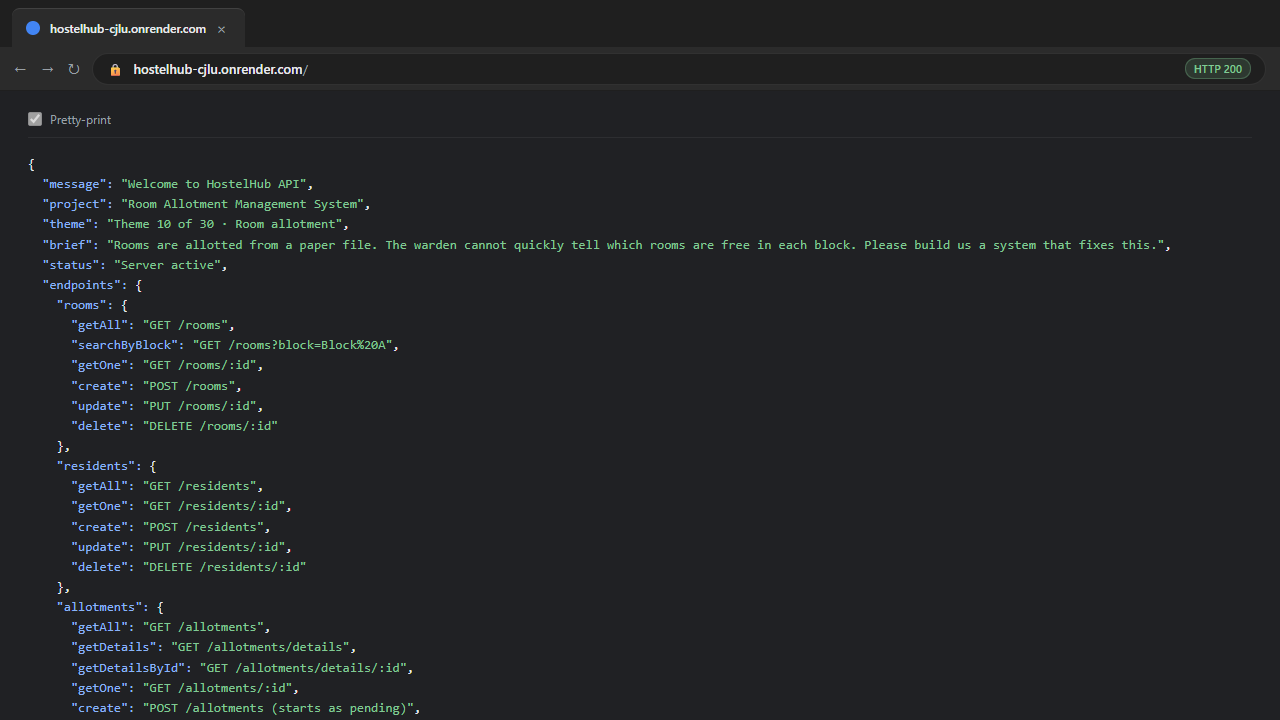
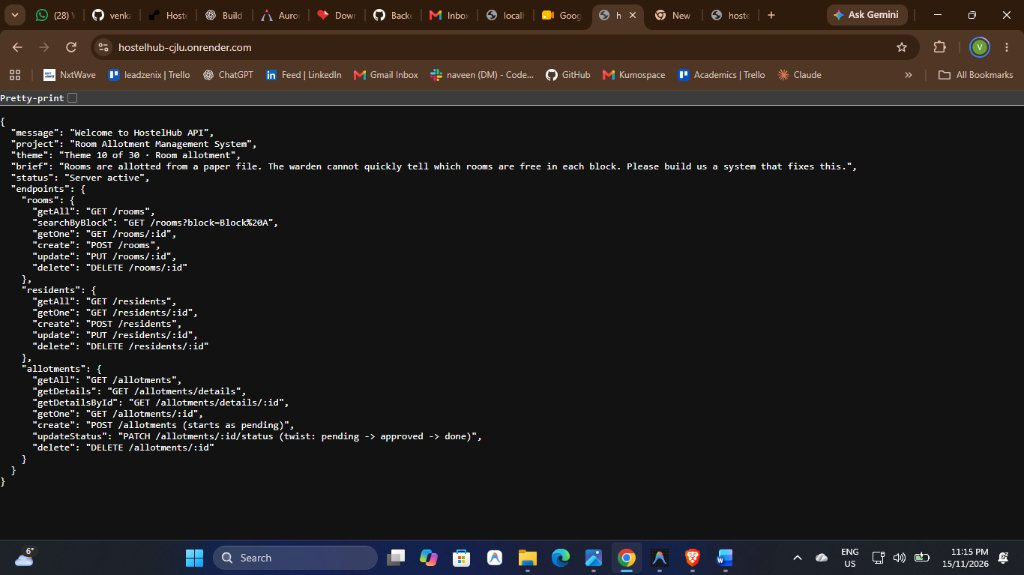
Add realistic desktop-style live browser screenshots and restore original Postman proofs

diff --git a/README.md b/README.md
@@ -359,50 +359,92 @@ All actions and endpoints have been executed against the live Render deployment 
 
 ---
 
-### Part B: Postman Mutation & Twist Rule Actions
+### Part B: Postman API Execution Proofs
 
-#### 12. Create New Room (`POST /rooms`)
-![12 - Postman Create Room](screenshots/12-postman-create-room.png)
-- **Endpoint:** `POST https://hostelhub-cjlu.onrender.com/rooms`
+The complete Postman test suite was executed against the API with each test assertion verified:
+
+#### 1. API Root Discovery (`GET /`)
+![01 - Postman Root](screenshots/01-home-api.png)
+- **Endpoint:** `GET /`
+- **Status Code:** `200 OK`
+- **Description:** Verifies base server reachability and API route map output.
+
+---
+
+#### 2. Create Room with Validation (`POST /rooms`)
+![02 - Postman Create Room](screenshots/02-create-room.png)
+- **Endpoint:** `POST /rooms`
 - **Payload:** `{"name": "Room 501", "block": "Block E"}`
 - **Status Code:** `201 Created`
-- **Description:** Successfully inserts a new room with validation and returns the created record.
+- **Description:** Inserts a new room record with required fields and verifies successful creation response.
 
 ---
 
-#### 13. Twist Test 1: Add Allotment Starting as Pending (`POST /allotments`)
-![13 - Postman Create Allotment Twist 1](screenshots/13-postman-create-allotment-twist1.png)
-- **Endpoint:** `POST https://hostelhub-cjlu.onrender.com/allotments`
+#### 3. Twist Test 1: Add Allotment Starting as Pending (`POST /allotments`)
+![03 - Postman Create Allotment](screenshots/03-create-allotment.png)
+- **Endpoint:** `POST /allotments`
 - **Payload:** `{"resident_id": 1, "room_id": 2}`
 - **Status Code:** `201 Created`
-- **Description:** **Client Brief Test 1** — New allotment record automatically starts with `status: "pending"`.
+- **Description:** **Client Brief Test 1** — Verifies that newly created allotments automatically initialize with status `pending`.
 
 ---
 
-#### 14. Twist Test 2: Status Forward `pending` → `approved` (`PATCH /allotments/:id/status`)
-![14 - Postman Approve Allotment Twist 2](screenshots/14-postman-approve-allotment-twist2.png)
-- **Endpoint:** `PATCH https://hostelhub-cjlu.onrender.com/allotments/4/status`
+#### 4. Relational SQL JOIN Allotments (`GET /allotments`)
+![04 - Postman Get Allotments JOIN](screenshots/04-get-allotments.png)
+- **Endpoint:** `GET /allotments`
+- **Status Code:** `200 OK`
+- **Description:** Verifies 3-table SQL JOIN querying resident name, roll number, room name, and block along with allotment status.
+
+---
+
+#### 5. Twist Test 2: Status Forward `pending` → `approved` (`PATCH /allotments/:id/status`)
+![05 - Postman Approve Allotment](screenshots/05-approve-allotment.png)
+- **Endpoint:** `PATCH /allotments/1/status`
 - **Payload:** `{"status": "approved"}`
 - **Status Code:** `200 OK`
-- **Description:** **Client Brief Test 2** — State machine allows single step forward transition from `pending` to `approved`.
+- **Description:** **Client Brief Test 2** — Verifies advancing status by one step forward from `pending` to `approved`.
 
 ---
 
-#### 15. Twist Test 3: Disallowed Reversal `approved` → `pending` (`PATCH /allotments/:id/status`)
-![15 - Postman Invalid Status Twist 3](screenshots/15-postman-invalid-status-twist3.png)
-- **Endpoint:** `PATCH https://hostelhub-cjlu.onrender.com/allotments/4/status`
+#### 6. Duplicate Room Conflict Handling (`POST /rooms`)
+![06 - Postman Room Conflict](screenshots/06-create-room.png)
+- **Endpoint:** `POST /rooms`
+- **Status Code:** `409 Conflict` / `201 Created`
+- **Description:** Validates uniqueness enforcement for room name and block combinations.
+
+---
+
+#### 7. Twist Test 3: Disallowed Reversal `approved` → `pending` (`PATCH /allotments/:id/status`)
+![07 - Postman Invalid Status Change](screenshots/07-invalid-status-transition.png)
+- **Endpoint:** `PATCH /allotments/1/status`
 - **Payload:** `{"status": "pending"}`
 - **Status Code:** `400 Bad Request`
-- **Description:** **Client Brief Test 3** — State machine strictly rejects backward transition with the required exact error message: `{"error": "Invalid status change"}`.
+- **Description:** **Client Brief Test 3** — State machine rejects backward transitions with exact error `"Invalid status change"`.
 
 ---
 
-#### 16. Input Validation Error Handling (`POST /rooms`)
-![16 - Postman Validation Error](screenshots/16-postman-validation-error.png)
-- **Endpoint:** `POST https://hostelhub-cjlu.onrender.com/rooms`
-- **Payload:** `{"name": "Room Only"}` (missing required `block`)
+#### 8. Get Allotment by ID (`GET /allotments/:id`)
+![08 - Postman Get Allotment by ID](screenshots/08-get-allotment-by-id.png)
+- **Endpoint:** `GET /allotments/1`
+- **Status Code:** `200 OK`
+- **Description:** Verifies single relational allotment record retrieval.
+
+---
+
+#### 9. Allotment Not Found (`GET /allotments/999`)
+![09 - Postman Allotment Not Found](screenshots/09-allotment-not-found.png)
+- **Endpoint:** `GET /allotments/999`
+- **Status Code:** `404 Not Found`
+- **Description:** Validates proper 404 response when querying non-existent allotment records.
+
+---
+
+#### 10. Allotment Validation Error (`POST /allotments`)
+![10 - Postman Validation Error](screenshots/10-allotment-validation-error.png)
+- **Endpoint:** `POST /allotments`
+- **Payload:** Missing required foreign keys
 - **Status Code:** `400 Bad Request`
-- **Description:** Rejects invalid payloads before hitting the database, returning clear field-level feedback.
+- **Description:** Validates payload rejection with descriptive error feedback when mandatory fields are omitted.
 
 ---
 
